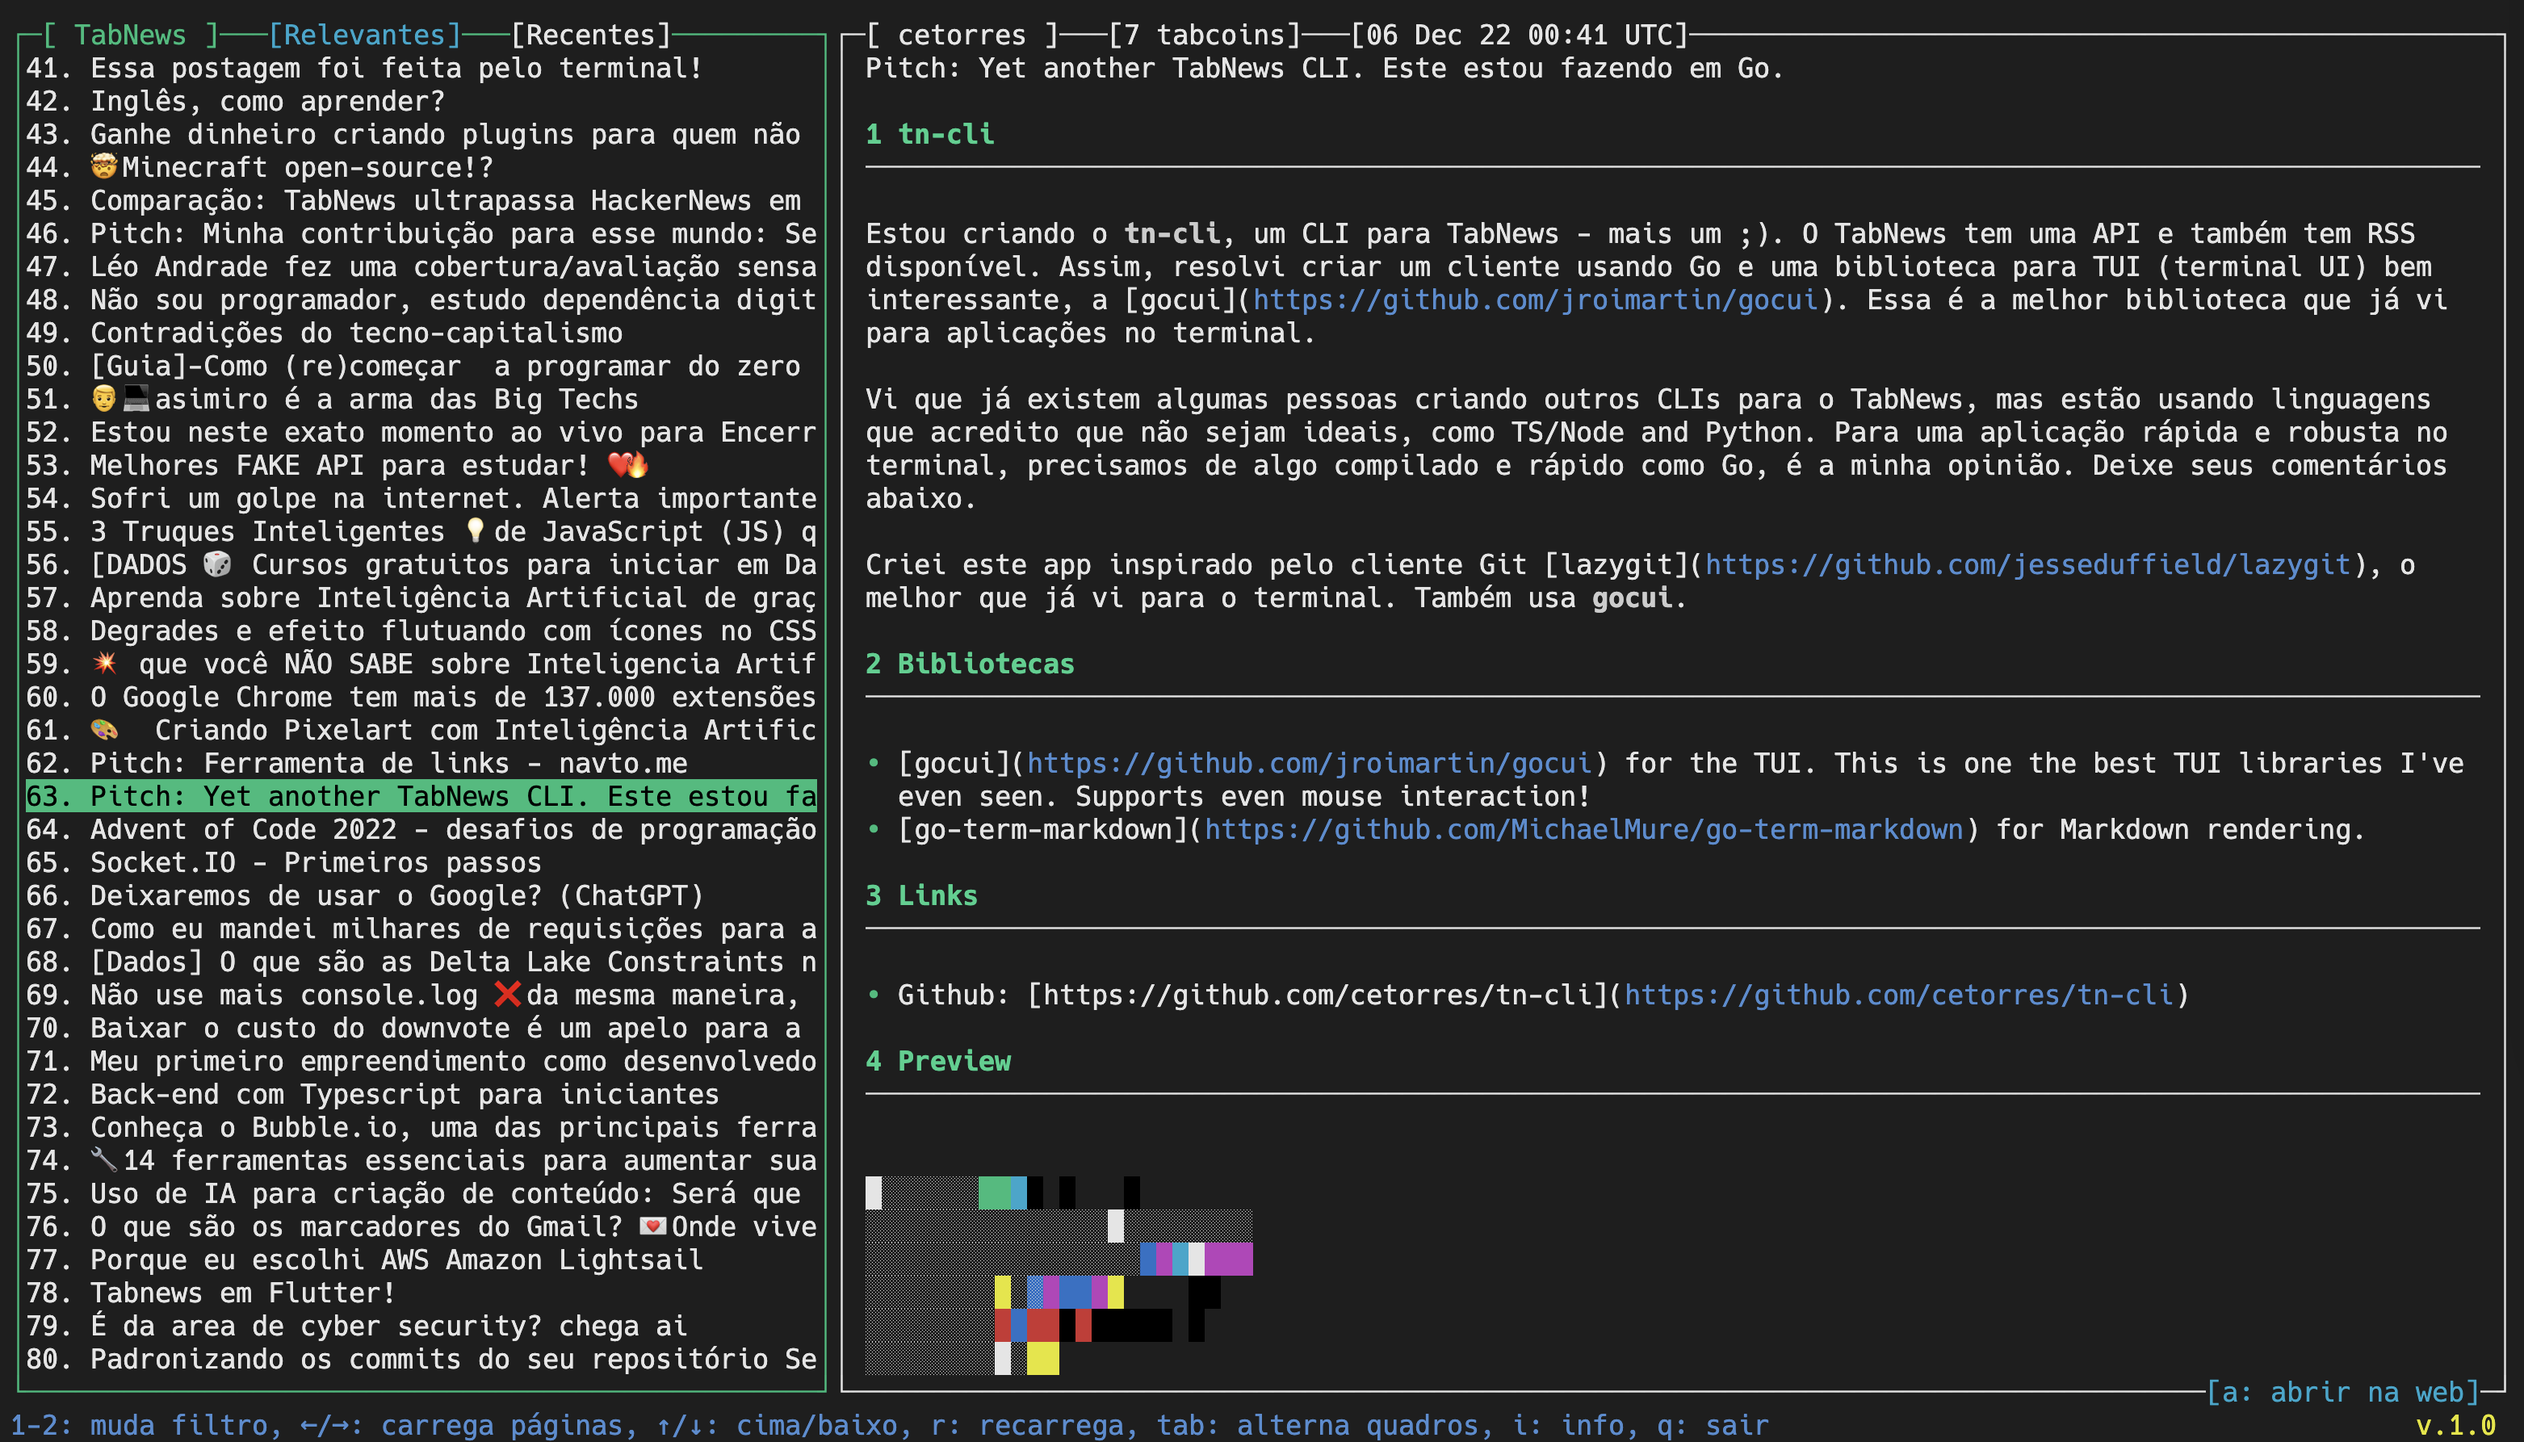
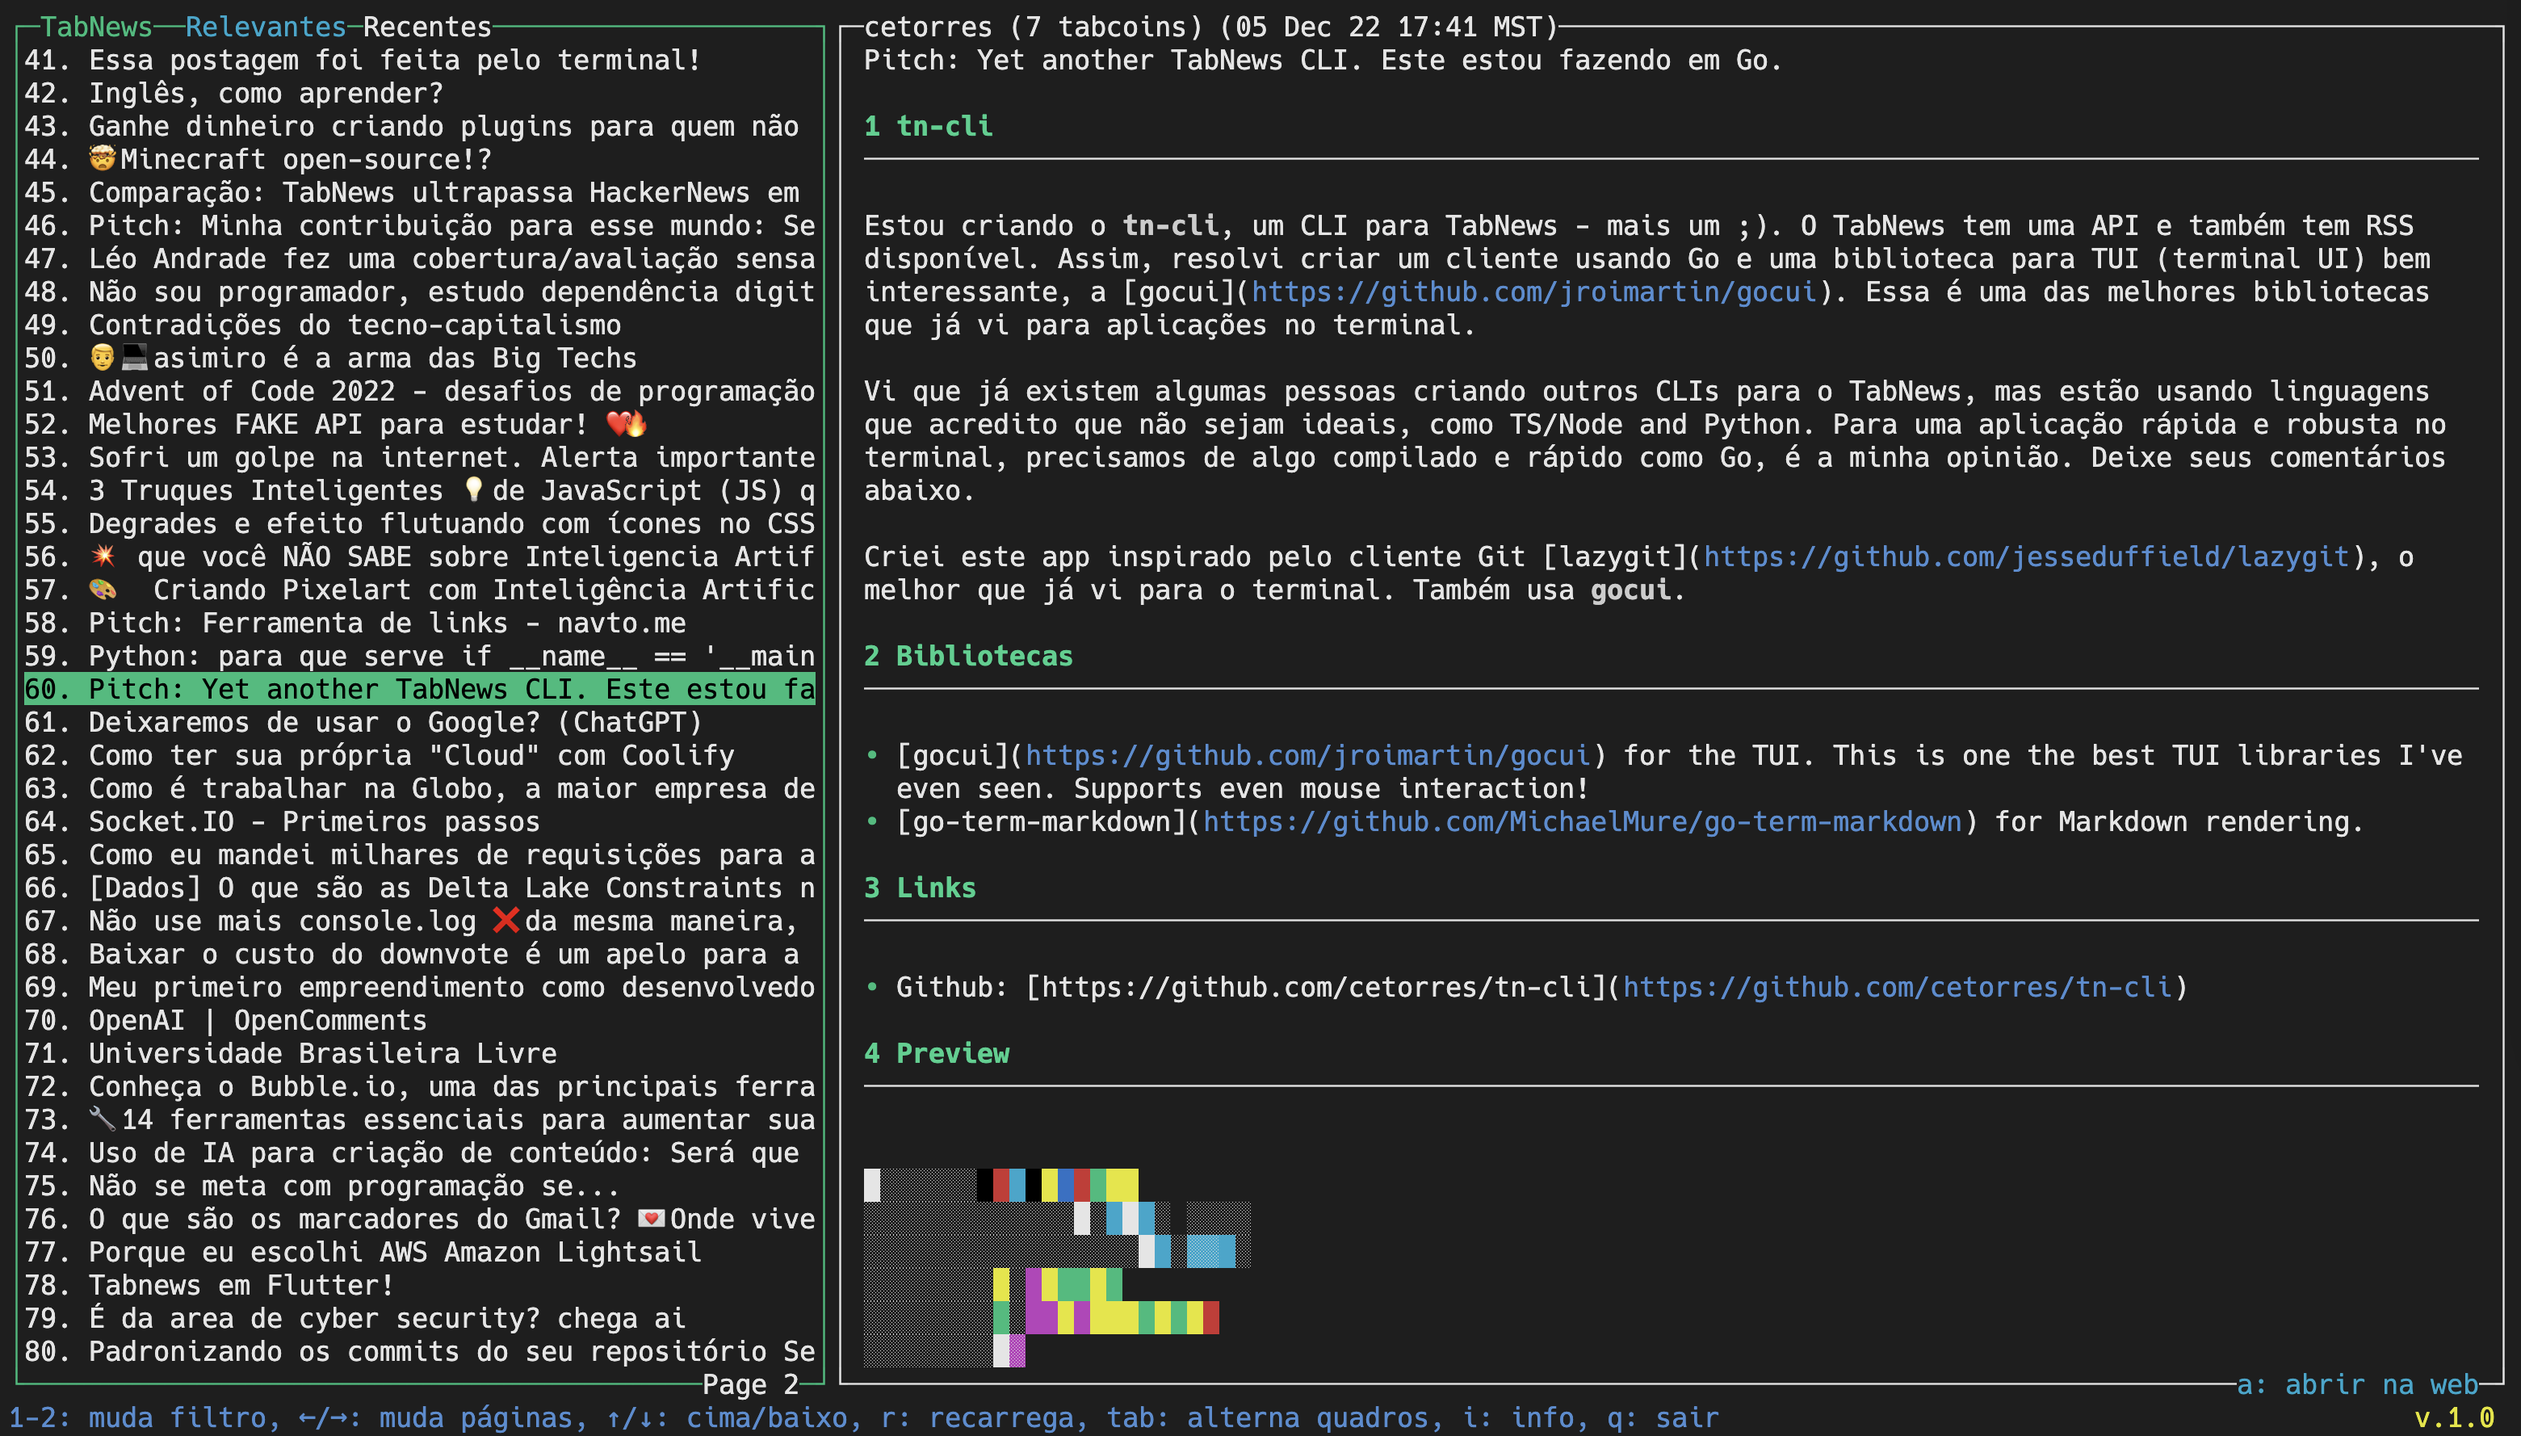
Improved interface for smaller screens. Added page number to the list.

Changed region(s): [[0.0, 0.0, 0.9942, 1.0]]

diff --git a/main.go b/main.go
@@ -23,8 +23,9 @@ const (
 	RECENT_ITEMS_VIEW = "recentitems"
 	RELEVANT_ITEMS_VIEW = "relevantitems"
 	OPEN_ARTICLE_VIEW = "openarticleview"
+	PAGE_NUMBER_VIEW  = "pagenumberview"
 	READER_PADDING = 1	
-	BOTTOM_HELP	   = "1-2: muda filtro, ←/→: carrega páginas, ↑/↓: cima/baixo, r: recarrega, tab: alterna quadros, i: info, q: sair"
+	BOTTOM_HELP	   = "1-2: muda filtro, ←/→: muda páginas, ↑/↓: cima/baixo, r: recarrega, tab: alterna quadros, i: info, q: sair"
 	APP_LOGO			 = `
  _                    _ _ 
 | |_ _ __         ___| (_)
@@ -79,7 +80,7 @@ func layout(g *gocui.Gui) error {
 		if err != gocui.ErrUnknownView {
 			return err
 		}
-		v.Title = "[ " + APP_TITLE + " ]"
+		v.Title = APP_TITLE
 		v.Editable = false
 		v.Autoscroll = false
 		v.Wrap = false
@@ -92,8 +93,8 @@ func layout(g *gocui.Gui) error {
 		})
 	}
 
-	// Setup new and relevant views (selectable)
-	if v, err := g.SetView(RELEVANT_ITEMS_VIEW, 15, -1, 28, 1); err != nil {
+	// Set up new and relevant views (selectable)
+	if v, err := g.SetView(RELEVANT_ITEMS_VIEW, 10, -1, 21, 1); err != nil {
 		if err != gocui.ErrUnknownView {
 			return err
 		}
@@ -101,9 +102,9 @@ func layout(g *gocui.Gui) error {
 		v.Frame = false
 		v.Highlight = true
 		v.SelFgColor = gocui.ColorCyan
-		fmt.Fprintln(v, "[Relevantes]")
+		fmt.Fprintln(v, "Relevantes")
 	}
-	if v, err := g.SetView(RECENT_ITEMS_VIEW, 30, -1, 41, 1); err != nil {
+	if v, err := g.SetView(RECENT_ITEMS_VIEW, 21, -1, 30, 1); err != nil {
 		if err != gocui.ErrUnknownView {
 			return err
 		}
@@ -111,8 +112,20 @@ func layout(g *gocui.Gui) error {
 		v.Frame = false
 		// v.Highlight = true
 		v.SelFgColor = gocui.ColorCyan
-		fmt.Fprintln(v, "[Recentes]")
+		fmt.Fprintln(v, "Recentes")
 	}
+
+	// Set up page number view
+	// pageNumberStr := fmt.Sprintf("Page %d", currentPage)
+	// if v, err := g.SetView(PAGE_NUMBER_VIEW, maxX/3-3-len(pageNumberStr), maxY-3, maxX/3-2, maxY-1); err != nil {
+	// 	if err != gocui.ErrUnknownView {
+	// 		return err
+	// 	}
+	// 	v.Wrap = false
+	// 	v.Frame = false
+	// 	fmt.Fprintln(v, pageNumberStr)
+	// }
+	UpdatePageNumber(g)
 
 	// Set up reader view
 	if v, err := g.SetView(READER_VIEW, maxX/3, 0, maxX-1, maxY-2); err != nil {
@@ -125,7 +138,7 @@ func layout(g *gocui.Gui) error {
 	}
 
 	// Set up open article view
-	openArticleStr := "[a: abrir na web]"
+	openArticleStr := "a: abrir na web"
 	if v, err := g.SetView(OPEN_ARTICLE_VIEW, maxX-len(openArticleStr)-3, maxY-3, maxX-2, maxY-1); err != nil {
 		if err != gocui.ErrUnknownView {
 			return err
@@ -243,10 +256,11 @@ func LoadContent(g *gocui.Gui, v *gocui.View) error {
 
 	// View title (username)
 	tabcoin := "tabcoins"
-	if contents[selected].Tabcoins <= 1 {
+	if contents[selected].Tabcoins == 0 || contents[selected].Tabcoins == 1 {
 		tabcoin = "tabcoin"
-	} //├ ┤ ─
-	v2.Title = fmt.Sprintf("[ %s ]─[%d %s]─[%s]", contents[selected].OwnerUsername, contents[selected].Tabcoins, tabcoin, contents[selected].PublishedAt.Format(time.RFC822))
+	}
+	tz, _ := time.LoadLocation("Local")
+	v2.Title = fmt.Sprintf("%s (%d %s) (%s)", contents[selected].OwnerUsername, contents[selected].Tabcoins, tabcoin, contents[selected].PublishedAt.In(tz).Format(time.RFC822))
 
 	// Markdown options
 	maxX, _ := v2.Size()
@@ -325,6 +339,21 @@ func LoadRecent(g *gocui.Gui, v0 *gocui.View) error {
 	currentStrategy = "new"
 	LoadList(g, v)
 
+	return nil
+}
+
+func UpdatePageNumber(g *gocui.Gui) error {
+	maxX, maxY := g.Size()
+	g.DeleteView(PAGE_NUMBER_VIEW)
+	pageNumberStr := fmt.Sprintf("Page %d", currentPage)
+	if v, err := g.SetView(PAGE_NUMBER_VIEW, maxX/3-3-len(pageNumberStr), maxY-3, maxX/3-2, maxY-1); err != nil {
+		if err != gocui.ErrUnknownView {
+			return err
+		}
+		v.Wrap = false
+		v.Frame = false
+		fmt.Fprintln(v, pageNumberStr)
+	}
 	return nil
 }
 
@@ -431,6 +460,8 @@ func LoadPreviewsPage(g *gocui.Gui, v *gocui.View) error {
 	LoadList(g ,v)
 	v.SetCursor(0, 0)
 	v.SetOrigin(0, 0)
+
+	UpdatePageNumber(g)
 	
 	return nil
 }
@@ -442,6 +473,8 @@ func LoadNextPage(g *gocui.Gui, v *gocui.View) error {
 	LoadList(g ,v)
 	v.SetCursor(0, 0)
 	v.SetOrigin(0, 0)
+
+	UpdatePageNumber(g)
 	
 	return nil
 }
@@ -455,7 +488,7 @@ func ShowVersion() {
 func ShowInfo(g *gocui.Gui, v *gocui.View) error {
 	v2, _ := g.View(READER_VIEW)
 	v2.Clear()
-	v2.Title = "[ Info ]"
+	v2.Title = "Info"
 
 	v2.SetCursor(0, 0)
 	v2.SetOrigin(0, 0)
